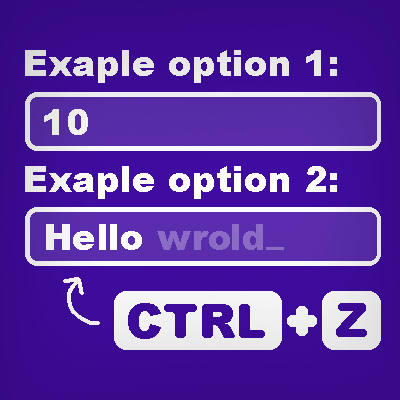
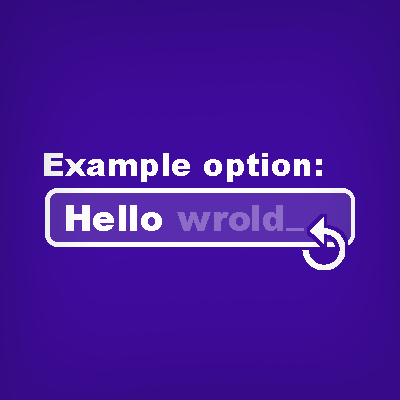
Release v1.0.1

diff --git a/Eclipse Project/src/main/java/thecsdev/uiinputundo/mixin/TextFieldWidgetMixin.java b/Eclipse Project/src/main/java/thecsdev/uiinputundo/mixin/TextFieldWidgetMixin.java
@@ -64,7 +64,9 @@ public abstract class TextFieldWidgetMixin
 		//check for undo
 		if(UIInputUndoClient.KeyUndo.matchesKey(keyCode, scanCode))
 		{
-			undo();
+			if(!Screen.hasShiftDown()) undo();
+			else undo(true);
+			
 			callback.setReturnValue(true);
 			callback.cancel();
 			return;
@@ -73,7 +75,9 @@ public abstract class TextFieldWidgetMixin
 		//check for redo
 		else if(UIInputUndoClient.KeyRedo.matchesKey(keyCode, scanCode))
 		{
-			redo();
+			if(!Screen.hasShiftDown()) redo();
+			else redo(true);
+			
 			callback.setReturnValue(true);
 			callback.cancel();
 			return;
@@ -109,7 +113,9 @@ public abstract class TextFieldWidgetMixin
 	}
 	// --------------------------------------------------
 	@DontObfuscate
-	public void undo()
+	public void undo() { undo(false); }
+	@DontObfuscate
+	public void undo(boolean undoSingle)
 	{
 		//check undo history size
 		if(UndoHistory.size() < 1)
@@ -133,13 +139,15 @@ public abstract class TextFieldWidgetMixin
 			setText(text);
 			if(!oldText.startsWith(text)) break;
 		}
-		while(UndoHistory.size() > 0 && keepUndoing(text.charAt(text.length() - 1)));
+		while(!undoSingle && (UndoHistory.size() > 0 && keepUndoing(text.charAt(text.length() - 1))));
 		
 		Undoing = false;
 	}
 	
 	@DontObfuscate
-	public void redo()
+	public void redo() { redo(false); }
+	@DontObfuscate
+	public void redo(boolean redoSingle)
 	{
 		//check redo history size
 		if(RedoHistory.size() < 1)
@@ -163,7 +171,7 @@ public abstract class TextFieldWidgetMixin
 			setText(text);
 			if(!text.startsWith(oldText)) break;
 		}
-		while(RedoHistory.size() > 0 && keepUndoing(text.charAt(text.length() - 1)));
+		while(!redoSingle && (RedoHistory.size() > 0 && keepUndoing(text.charAt(text.length() - 1))));
 		
 		Undoing = false;
 	}
